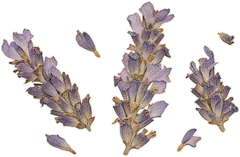
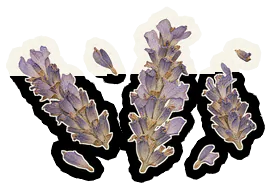
feat(site): give every cut-out a torn paper margin of the same width

diff --git a/index.html b/index.html
@@ -50,7 +50,7 @@
     <script type="module" src="/src/companion.js"></script>
     <title>hibi | a place for your words</title>
   </head>
-  <body data-butterflies="1">
+  <body data-butterflies="0">
     <a class="skip-link" href="#main">skip to content</a>
     <header class="site-header wrap">
       <a class="wordmark" href="#" aria-label="hibi home"
@@ -180,24 +180,24 @@
           </section>
         </div>
         <span class="piece pinned wide gutter-l" aria-hidden="true" style="--y: 96px; --w: 150px; --r: -12deg"
-          ><img src="/scrapbook/specimen-clearwing.webp" width="150" height="95" alt="" decoding="async"
+          ><img src="/scrapbook/specimen-clearwing.webp" width="167" height="112" alt="" decoding="async"
         /></span>
         <span class="piece label wide gutter-l" aria-hidden="true" style="--w: 130px; --y: 214px; --r: -5deg">clearwing · no. 1</span>
         <span class="piece taped wide gutter-l" aria-hidden="true" style="--y: 330px; --w: 70px; --r: -9deg; --tape-y: 62%"
-          ><img src="/scrapbook/lavender-1.webp" width="75" height="299" alt="" decoding="async" data-perch="0.5,0.1"
+          ><img src="/scrapbook/lavender-1.webp" width="92" height="316" alt="" decoding="async" data-perch="0.5,0.1"
         /></span>
         <span class="note wide gutter-l" aria-hidden="true" style="--w: 130px; --y: 690px; --r: -7deg">try it here!</span>
         <span class="doodle wide gutter-l" data-doodle="arrow" aria-hidden="true" style="--y: 716px; --w: 112px; --r: 12deg"></span>
         <span class="piece taped wide gutter-r" aria-hidden="true" style="--y: 236px; --w: 104px; --r: 16deg; --tape-img: url(/scrapbook/tape-butter.webp); --tape-y: 40%"
-          ><img src="/scrapbook/bf-small-blue.webp" width="110" height="84" alt="" decoding="async"
+          ><img src="/scrapbook/bf-small-blue.webp" width="127" height="101" alt="" decoding="async"
         /></span>
         <span class="doodle wide gutter-r lavender-ink" data-doodle="trail" aria-hidden="true" style="--y: 340px; --w: 150px; --r: 70deg"></span>
         <span class="piece taped wide gutter-r" aria-hidden="true" style="--y: 540px; --w: 132px; --r: 11deg; --tape-img: url(/scrapbook/tape-cream.webp)"
-          ><img src="/scrapbook/lavender-2.webp" width="150" height="279" alt="" decoding="async" data-perch="0.5,0.1"
+          ><img src="/scrapbook/lavender-2.webp" width="167" height="296" alt="" decoding="async" data-perch="0.5,0.1"
         /></span>
         <span class="piece label wide gutter-r" aria-hidden="true" style="--w: 130px; --y: 838px; --r: -4deg">lavender · no. 2</span>
         <span class="piece pinned wide gutter-r" aria-hidden="true" style="--y: 912px; --w: 106px; --r: -18deg"
-          ><img src="/scrapbook/bf-morpho.webp" width="120" height="89" alt="" loading="lazy" decoding="async"
+          ><img src="/scrapbook/bf-morpho.webp" width="137" height="106" alt="" loading="lazy" decoding="async"
         /></span>
       </section>
       <section class="spread intro-writing wrap" aria-labelledby="about-title" data-scene="spiral">
@@ -230,7 +230,7 @@
       </section>
       <section class="spread own-app wrap" aria-labelledby="control-title" data-scene="chase">
         <span class="piece strapped own-sprig" aria-hidden="true" style="--w: 120px; --r: -8deg"
-          ><img src="/scrapbook/lavender-2.webp" width="150" height="279" alt="" loading="lazy" decoding="async" data-perch="0.5,0.1" data-companion="2"
+          ><img src="/scrapbook/lavender-2.webp" width="167" height="296" alt="" loading="lazy" decoding="async" data-perch="0.5,0.1" data-companion="2"
         /></span>
         <header class="spread-head">
           <h2 class="spread-title" id="control-title">for writers who want an app of their own.</h2>
@@ -276,7 +276,7 @@
             </div>
           </article>
           <span class="piece strapped pair-sprig wide gutter-r" aria-hidden="true" style="--w: 96px; --r: 8deg"
-            ><img src="/scrapbook/lavender-1.webp" width="75" height="299" alt="" loading="lazy" decoding="async" data-perch="0.5,0.08" data-pair
+            ><img src="/scrapbook/lavender-1.webp" width="92" height="316" alt="" loading="lazy" decoding="async" data-perch="0.5,0.08" data-pair
           /></span>
         </div>
         <article class="feature-free seed-packet settle">
@@ -286,7 +286,7 @@
       </section>
       <section class="personas wrap" aria-label="who hibi is for" data-scene="wake">
         <article class="writing-role role-writers paper settle">
-          <img class="role-object" src="/scrapbook/pen.webp" width="230" height="135" alt="" loading="lazy" decoding="async" />
+          <img class="role-object" src="/scrapbook/pen.webp" width="247" height="152" alt="" loading="lazy" decoding="async" />
           <h2>for authors.</h2>
           <p>
             write stories, essays, and notes. keep your drafts and research
@@ -295,7 +295,7 @@
           <a href="https://docs.hibi.garden/#page=guides%2Fediting.md">writing guide</a>
         </article>
         <article class="writing-role role-academics paper settle">
-          <img class="role-object" src="/scrapbook/pencil.webp" width="230" height="146" alt="" loading="lazy" decoding="async" />
+          <img class="role-object" src="/scrapbook/pencil.webp" width="247" height="163" alt="" loading="lazy" decoding="async" />
           <h2>for academics and students.</h2>
           <p>
             write papers in typst or latex with a preview beside your draft,
@@ -305,7 +305,7 @@
         </article>
         <article class="writing-role role-developers paper settle">
           <span class="role-object role-braces" aria-hidden="true"
-            ><img src="/scrapbook/brace-left.webp" width="64" height="76" alt="" loading="lazy" decoding="async" /><img src="/scrapbook/brace-right.webp" width="64" height="74" alt="" loading="lazy" decoding="async"
+            ><img src="/scrapbook/brace-left.webp" width="81" height="93" alt="" loading="lazy" decoding="async" /><img src="/scrapbook/brace-right.webp" width="81" height="91" alt="" loading="lazy" decoding="async"
           /></span>
           <h2>for developers.</h2>
           <p>
@@ -317,7 +317,7 @@
         </article>
         <article class="writing-role role-notes paper settle">
           <span class="piece pinned wake-me" aria-hidden="true" style="--x: calc(100% - 92px); --y: -34px; --w: 84px; --r: 12deg"
-            ><img src="/scrapbook/bf-cabbage-white.webp" width="100" height="66" alt="" loading="lazy" decoding="async"
+            ><img src="/scrapbook/bf-cabbage-white.webp" width="117" height="83" alt="" loading="lazy" decoding="async"
           /></span>
           <h2>for note-takers.</h2>
           <p>
@@ -348,7 +348,7 @@
             >
           </div>
           <span class="piece taped not-narrow" aria-hidden="true" style="--x: -34px; --y: calc(100% - 170px); --w: 62px; --r: -18deg; --tape-img: url(/scrapbook/tape-cream.webp); --tape-y: 60%"
-            ><img src="/scrapbook/lavender-1.webp" width="75" height="299" alt="" loading="lazy" decoding="async" data-perch="0.5,0.1"
+            ><img src="/scrapbook/lavender-1.webp" width="92" height="316" alt="" loading="lazy" decoding="async" data-perch="0.5,0.1"
           /></span>
         </div>
       </section>
@@ -451,11 +451,11 @@
           <span>h</span><span>i</span><span>b</span><span>i</span>
         </div>
         <span class="piece taped not-narrow" aria-hidden="true" style="--x: calc(100% - 150px); --y: 0px; --w: 98px; --r: 14deg; --tape-img: url(/scrapbook/tape-blue.webp); --tape-y: 62%"
-          ><img src="/scrapbook/lavender-bundle.webp" width="130" height="280" alt="" loading="lazy" decoding="async"
+          ><img src="/scrapbook/lavender-bundle.webp" width="147" height="298" alt="" loading="lazy" decoding="async"
         /></span>
         <div class="footer-details">
           <span class="piece pinned not-narrow" aria-hidden="true" style="--x: -40px; --y: -40px; --w: 84px; --r: -14deg"
-            ><img src="/scrapbook/bf-rosy-maple.webp" width="110" height="63" alt="" loading="lazy" decoding="async"
+            ><img src="/scrapbook/bf-rosy-maple.webp" width="127" height="80" alt="" loading="lazy" decoding="async"
           /></span>
           <div>
             <a class="footer-brand wordmark" href="/" aria-label="hibi home">

diff --git a/addons/index.html b/addons/index.html
@@ -107,25 +107,25 @@
       <span class="note wide gutter-l" aria-hidden="true" style="--w: 120px; --y: 150px; --r: -8deg">pick a few ♡</span>
       <span class="doodle wide gutter-l" data-doodle="arrow" aria-hidden="true" style="--w: 96px; --y: 206px; --r: 24deg; --dx: 18px"></span>
       <span class="piece taped wide gutter-l" aria-hidden="true" style="--w: 72px; --y: 24%; --r: -8deg; --tape-img: url(/scrapbook/tape-butter.webp); --tape-y: 60%"
-        ><img src="/scrapbook/lavender-1.webp" width="75" height="299" alt="" decoding="async" data-perch="0.5,0.1"
+        ><img src="/scrapbook/lavender-1.webp" width="92" height="316" alt="" decoding="async" data-perch="0.5,0.1"
       /></span>
       <span class="piece pinned wide gutter-r" aria-hidden="true" style="--w: 110px; --y: 120px; --r: 14deg"
-        ><img src="/scrapbook/bf-morpho.webp" width="120" height="89" alt="" decoding="async"
+        ><img src="/scrapbook/bf-morpho.webp" width="137" height="106" alt="" decoding="async"
       /></span>
       <span class="piece wide gutter-r" aria-hidden="true" style="--w: 120px; --y: 34%; --r: 12deg"
-        ><img src="/scrapbook/lavender-heads.webp" width="120" height="79" alt="" loading="lazy" decoding="async" data-perch="0.4,0.3"
+        ><img src="/scrapbook/lavender-heads.webp" width="137" height="96" alt="" loading="lazy" decoding="async" data-perch="0.4,0.3"
       /></span>
       <span class="piece pinned wide gutter-l" aria-hidden="true" style="--w: 100px; --y: 48%; --r: -10deg"
-        ><img src="/scrapbook/bf-luna.webp" width="120" height="80" alt="" loading="lazy" decoding="async"
+        ><img src="/scrapbook/bf-luna.webp" width="137" height="97" alt="" loading="lazy" decoding="async"
       /></span>
       <span class="piece taped wide gutter-r" aria-hidden="true" style="--w: 120px; --y: 58%; --r: 10deg; --tape-img: url(/scrapbook/tape-periwinkle-dots.webp)"
-        ><img src="/scrapbook/lavender-2.webp" width="150" height="279" alt="" loading="lazy" decoding="async" data-perch="0.5,0.1"
+        ><img src="/scrapbook/lavender-2.webp" width="167" height="296" alt="" loading="lazy" decoding="async" data-perch="0.5,0.1"
       /></span>
       <span class="piece wide gutter-l" aria-hidden="true" style="--w: 120px; --y: 72%; --r: -14deg"
-        ><img src="/scrapbook/rose.webp" width="130" height="148" alt="" loading="lazy" decoding="async"
+        ><img src="/scrapbook/rose.webp" width="147" height="165" alt="" loading="lazy" decoding="async"
       /></span>
       <span class="piece pinned wide gutter-r" aria-hidden="true" style="--w: 96px; --y: 84%; --r: -12deg"
-        ><img src="/scrapbook/bf-swallowtail.webp" width="120" height="103" alt="" loading="lazy" decoding="async"
+        ><img src="/scrapbook/bf-swallowtail.webp" width="137" height="120" alt="" loading="lazy" decoding="async"
       /></span>
       <span class="doodle wide gutter-l lavender-ink" data-doodle="butterfly" aria-hidden="true" style="--w: 64px; --y: 90%; --r: -10deg"></span>
     </main>

diff --git a/demo/index.html b/demo/index.html
@@ -26,10 +26,10 @@
       <div id="root"></div>
     </div>
     <div class="demo-scraps" aria-hidden="true">
-      <img class="demo-scrap demo-lavender" src="/scrapbook/lavender-2.webp" width="150" height="279" alt="" data-perch="0.5,0.1" />
-      <img class="demo-scrap demo-butterfly" src="/scrapbook/bf-small-blue.webp" width="110" height="84" alt="" />
-      <img class="demo-scrap demo-lavender-left" src="/scrapbook/lavender-1.webp" width="75" height="299" alt="" data-perch="0.5,0.1" />
-      <img class="demo-scrap demo-moth" src="/scrapbook/bf-luna.webp" width="120" height="80" alt="" />
+      <img class="demo-scrap demo-lavender" src="/scrapbook/lavender-2.webp" width="167" height="296" alt="" data-perch="0.5,0.1" />
+      <img class="demo-scrap demo-butterfly" src="/scrapbook/bf-small-blue.webp" width="127" height="101" alt="" />
+      <img class="demo-scrap demo-lavender-left" src="/scrapbook/lavender-1.webp" width="92" height="316" alt="" data-perch="0.5,0.1" />
+      <img class="demo-scrap demo-moth" src="/scrapbook/bf-luna.webp" width="137" height="97" alt="" />
     </div>
     </div>
   </body>

diff --git a/credits/index.html b/credits/index.html
@@ -95,7 +95,7 @@
         <h1>credits</h1>
       </div>
       <span class="piece pinned credits-specimen" aria-hidden="true"
-        ><img src="/scrapbook/bf-cramer-blue.webp" width="120" height="60" alt="" decoding="async"
+        ><img src="/scrapbook/bf-cramer-blue.webp" width="137" height="77" alt="" decoding="async"
       /></span>
       <section class="credits-ledger ledger paper" aria-labelledby="credits-art">
         <h2 id="credits-art">pictures</h2>
